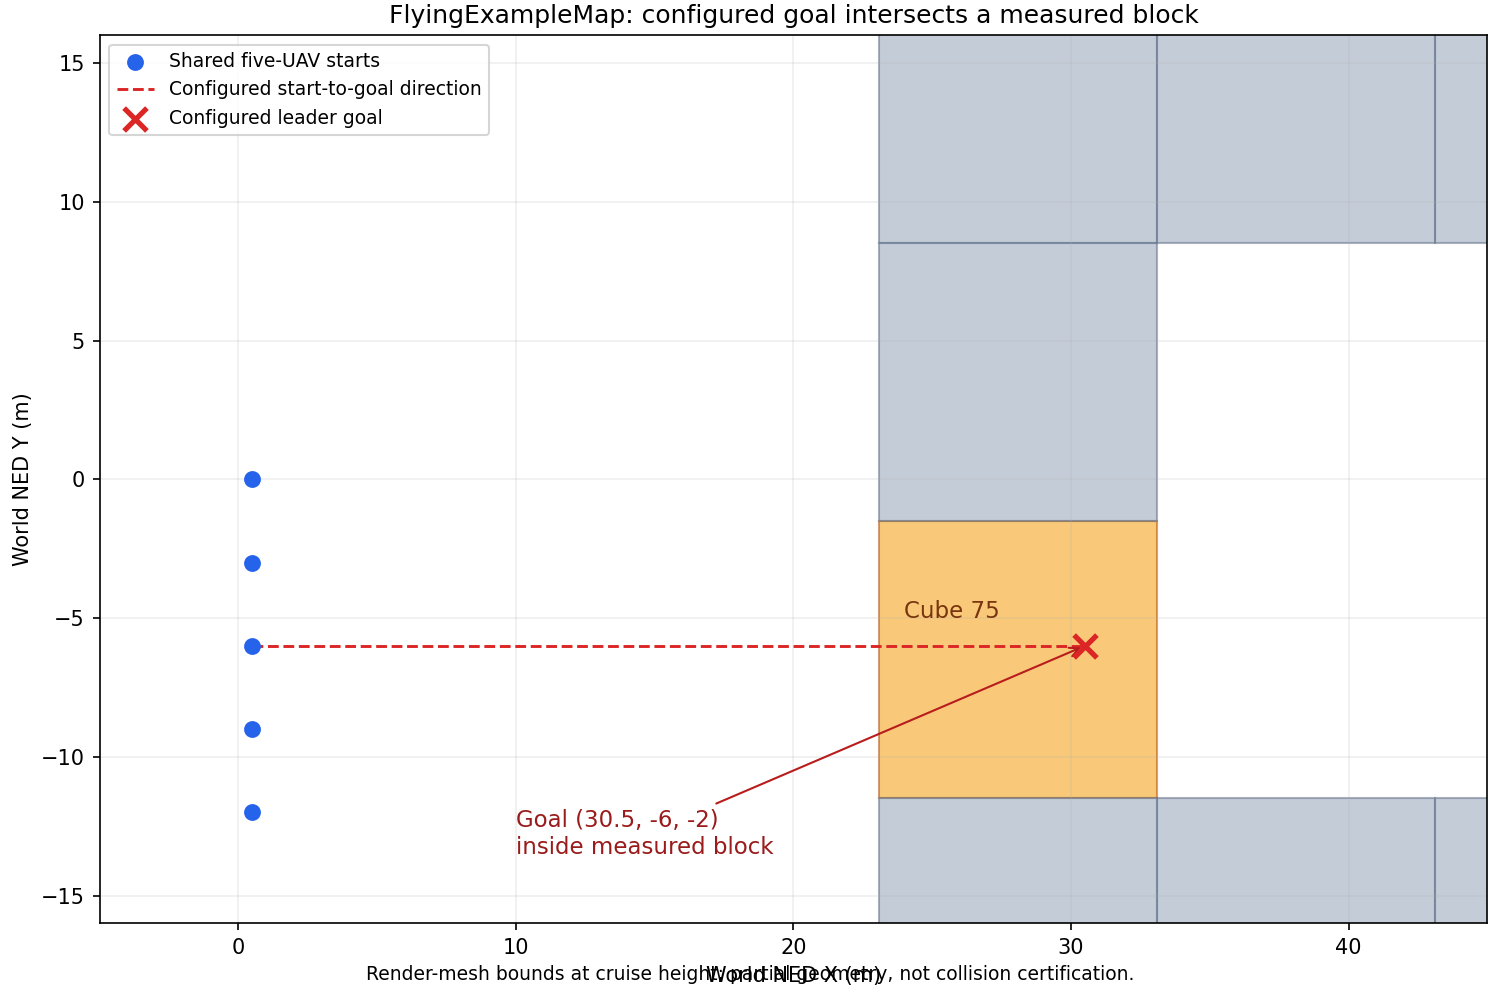
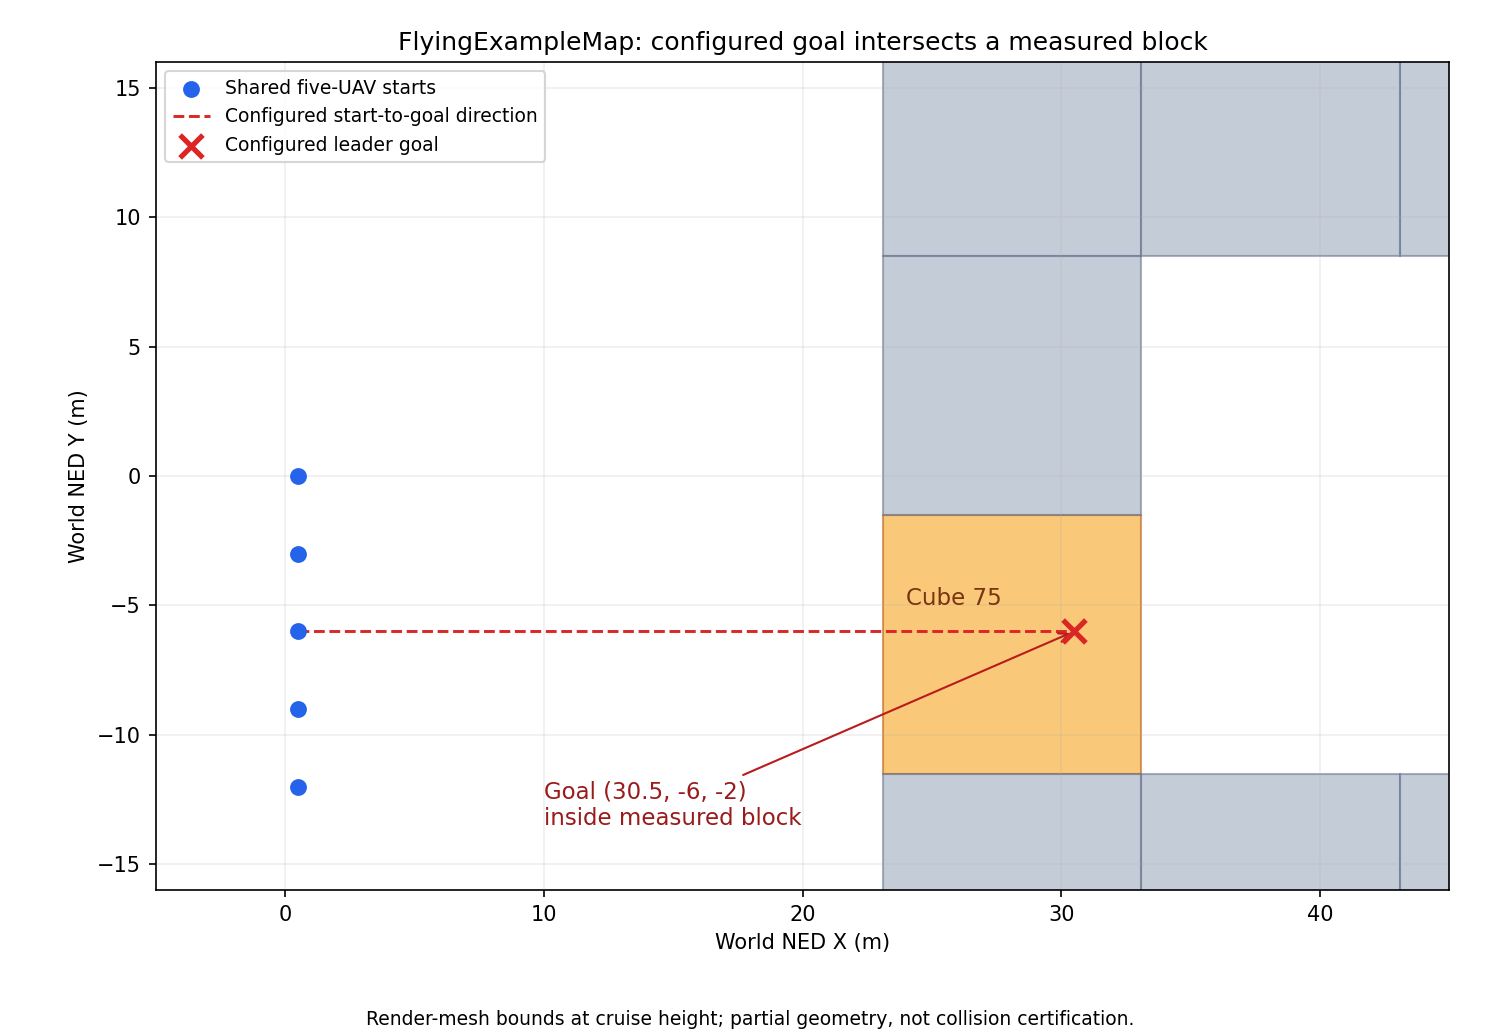
docs: separate map figure labels and verify evidence hashes

diff --git a/artifacts/open_map_five/2026-11-24/audit_helpers/archive_findings.py b/artifacts/open_map_five/2026-11-24/audit_helpers/archive_findings.py
@@ -57,7 +57,8 @@ matplotlib.use('Agg')
 import matplotlib.pyplot as plt
 from matplotlib.patches import Rectangle
 manifest=json.loads((OUT/'flying_example_manifest.json').read_text(encoding='utf-8'))
-fig,ax=plt.subplots(figsize=(10,6.6),layout='constrained')
+fig,ax=plt.subplots(figsize=(10,6.9))
+fig.subplots_adjust(left=.08,right=.99,top=.94,bottom=.14)
 for item in manifest['obstacles']:
     lo,hi=item['min_ned_m'],item['max_ned_m']
     if not lo[2]<=-2.<=hi[2]:continue
